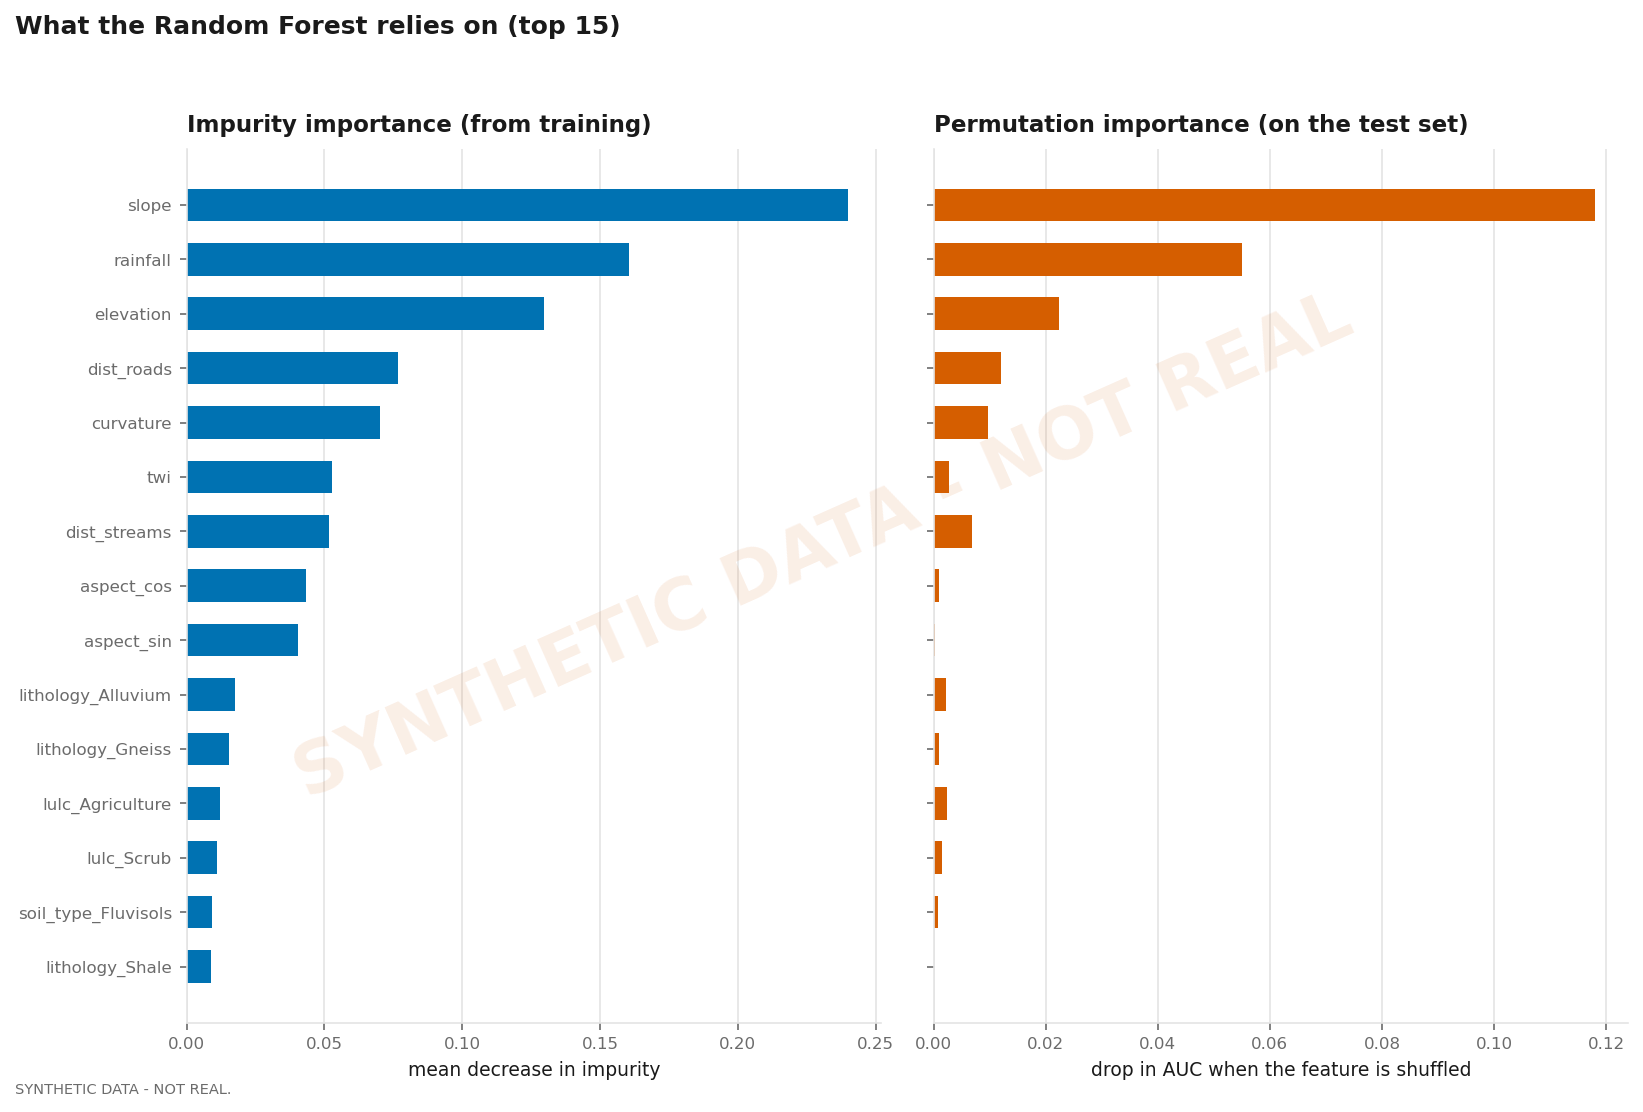
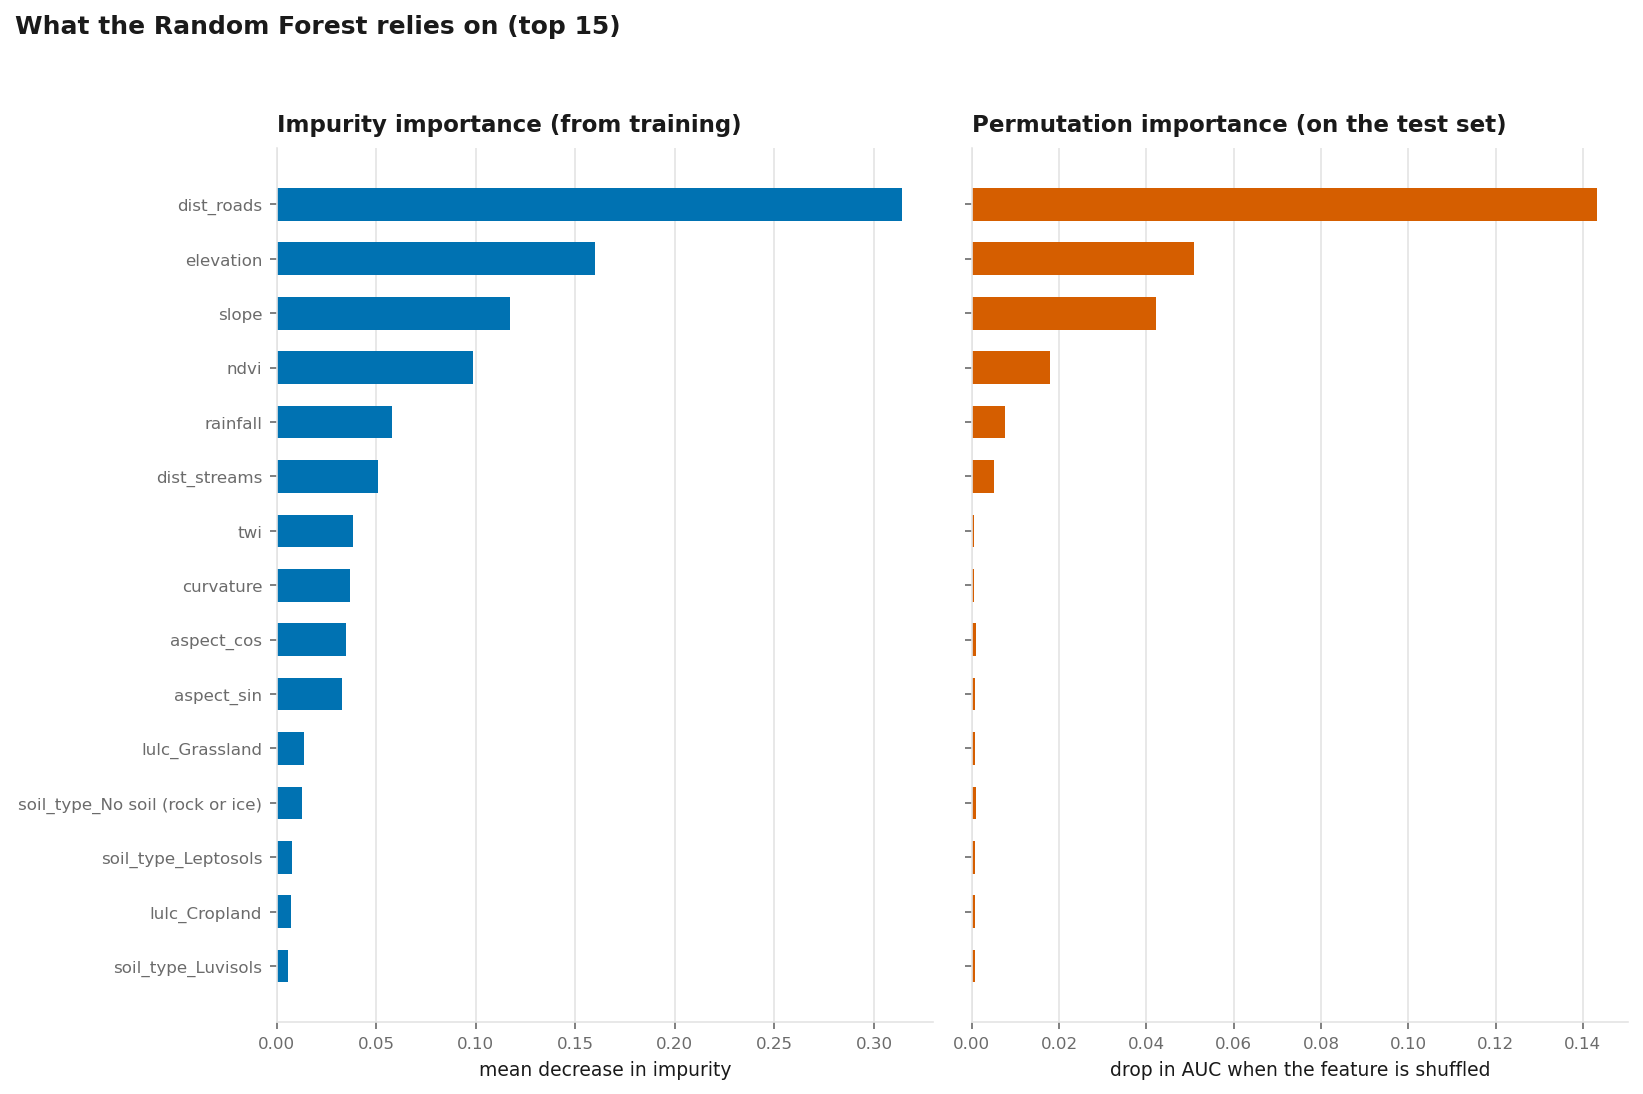
feat: real data ML pipeline complete
RF AUC 0.9604, SVM AUC 0.9404
23 features, 15169 rows, GSI inventory

RF minus SVM +0.0199 (95% bootstrap +0.0157 to +0.0242). Near-road
check: within 1 km of a road RF 0.934, SVM 0.907. Adds
src/near_road_check.py; evaluation report and figures regenerated on
real data. EDA outputs are still from the synthetic run.

diff --git a/src/near_road_check.py b/src/near_road_check.py
@@ -1,0 +1,88 @@
+"""
+How much of the test AUC comes from GSI's road-corridor survey pattern?
+
+    python -m src.near_road_check            (after src.evaluate)
+
+Why: at the real points the median distance to a road is 30 m for landslides and 1,154 m for stable
+points, and dist_roads is Random Forest's strongest feature. A model can then score well partly by
+answering "is this near a road?". This splits the held-out test set by distance to the nearest road and
+measures AUC in each part separately. Inside one part that shortcut is much weaker, so the AUC there is
+closer to how well the models rank terrain. Nothing is retrained; the models and test rows are exactly
+the ones src.evaluate scored. Results go to models/metadata.json under near_road_check.
+"""
+import sys
+
+import joblib
+import numpy as np
+import pandas as pd
+from sklearn.metrics import roc_auc_score
+
+from src import artifacts, config
+from src.evaluate import bootstrap_auc_difference, risk_scores
+
+ROAD_SPLIT_M = 1000
+BOOTSTRAP_ROUNDS = 1000
+
+
+def auc_interval(y: np.ndarray, s: np.ndarray, rounds: int = BOOTSTRAP_ROUNDS) -> tuple[float, float]:
+    """95% bootstrap interval for one model's AUC on one subset."""
+    rng = np.random.default_rng(config.RANDOM_STATE)
+    values = []
+    for _ in range(rounds):
+        idx = rng.integers(0, len(y), len(y))
+        if len(np.unique(y[idx])) == 2:
+            values.append(roc_auc_score(y[idx], s[idx]))
+    return float(np.percentile(values, 2.5)), float(np.percentile(values, 97.5))
+
+
+def main() -> int:
+    print(config.data_source_banner())
+    bundle = joblib.load(config.PROCESSED_DIR / "prepared.joblib")
+    X_test, y_test = bundle["X_test"], bundle["y_test"]
+    models = {"SVM (RBF)": joblib.load(config.SVM_MODEL_PATH), "Random Forest": joblib.load(config.RF_MODEL_PATH)}
+
+    # The test rows keep their row numbers from dataset.csv (preprocess only drops rows, never renumbers),
+    # so the unscaled distance comes straight from the CSV.
+    raw = pd.read_csv(config.DATASET_CSV)
+    dist = raw.loc[X_test.index, "dist_roads"].to_numpy()
+    scaler = joblib.load(config.SCALER_PATH)
+    col = list(bundle["feature_names"]).index("dist_roads")
+    rebuilt = X_test["dist_roads"].to_numpy() * scaler.scale_[col] + scaler.mean_[col]
+    if not np.allclose(rebuilt, dist, atol=0.05):
+        raise SystemExit("Test rows do not line up with dataset.csv; rerun src.preprocess first.")
+
+    y = y_test.to_numpy()
+    scores = {name: risk_scores(model, X_test) for name, model in models.items()}
+    subsets = {
+        "all test points": np.ones(len(y), dtype=bool),
+        f"within {ROAD_SPLIT_M} m of a road": dist <= ROAD_SPLIT_M,
+        f"beyond {ROAD_SPLIT_M} m": dist > ROAD_SPLIT_M,
+    }
+    results = {}
+    print(f"\nTest set split at {ROAD_SPLIT_M} m from the nearest OSM road\n")
+    print(f"  {'subset':<26}{'rows':>6}{'landslide':>10}{'stable':>8}   {'SVM AUC (95%)':<24}{'RF AUC (95%)':<24}RF - SVM (95%)")
+    for label, mask in subsets.items():
+        yy = y[mask]
+        row = {"rows": int(mask.sum()), "landslide": int(yy.sum()), "stable": int((yy == 0).sum())}
+        cells = []
+        for name in ["SVM (RBF)", "Random Forest"]:
+            auc = float(roc_auc_score(yy, scores[name][mask]))
+            low, high = auc_interval(yy, scores[name][mask])
+            row[name] = {"auc": round(auc, 4), "ci_low": round(low, 4), "ci_high": round(high, 4)}
+            cells.append(f"{auc:.4f} ({low:.3f}-{high:.3f})")
+        diff = bootstrap_auc_difference(yy, scores["SVM (RBF)"][mask], scores["Random Forest"][mask])
+        row["rf_minus_svm"] = diff
+        results[label] = row
+        print(f"  {label:<26}{row['rows']:>6,}{row['landslide']:>10,}{row['stable']:>8,}   {cells[0]:<24}{cells[1]:<24}"
+              f"{diff['mean_difference']:+.4f} ({diff['ci_low']:+.4f} to {diff['ci_high']:+.4f})")
+
+    artifacts.update_metadata("near_road_check", {
+        "split_m": ROAD_SPLIT_M, "road_source": "OpenStreetMap, dist_roads.tif",
+        "bootstrap_rounds": BOOTSTRAP_ROUNDS, "subsets": results,
+    })
+    print("\nSaved to models/metadata.json (near_road_check)")
+    return 0
+
+
+if __name__ == "__main__":
+    sys.exit(main())

diff --git a/docs/decisions.md b/docs/decisions.md
@@ -140,3 +140,48 @@ label. The merged names are saved in `metadata.json` and applied again in `prepa
 dropped, 2 rows median-filled, 15,169 used. VIF dropped nothing (highest elevation 6.47, NDVI 5.08): 23 features.
 Train 10,618 (3,530 landslide), SMOTE to 7,088 / 7,088; test 4,551 (1,513 landslide), never resampled.
 Synthetic models and metadata kept locally in `models/synthetic_baseline_2026-09-14/` for the comparison.
+
+## 17 September 2026: real-data results (Steps 5 to 7)
+
+`python -m src.train_svm` (10 min 17 s), `python -m src.train_rf` (4 min 54 s), `python -m src.evaluate`,
+`python -m src.near_road_check`. Full grids, 5-fold stratified CV, SMOTE inside every fold, seed 42.
+Test set 4,551 rows (1,513 landslide), never resampled.
+
+| | SVM (RBF) | Random Forest |
+|---|---|---|
+| Best parameters | C 100, gamma 0.01 | 300 trees, max_depth None, min_samples_split 2 |
+| CV AUC | 0.9427 | 0.9618 |
+| **Test AUC** | **0.9404** | **0.9604** |
+| Average precision | 0.8814 | 0.9143 |
+| Accuracy / precision / recall / F1 at 0.5 | 0.871 / 0.759 / 0.896 / 0.822 | 0.902 / 0.831 / 0.886 / 0.858 |
+| Confusion at 0.5 (TN, FP, FN, TP) | 2,608, 430, 158, 1,355 | 2,766, 272, 172, 1,341 |
+| Youden threshold | 0.52 (recall 0.890) | 0.52 (recall 0.884) |
+
+RF minus SVM AUC +0.0199, 95% bootstrap interval +0.0157 to +0.0242: separable. Linear SVM test AUC 0.9265,
+so the RBF kernel adds +0.0139. Synthetic baseline for comparison: RF 0.8767, SVM 0.8541.
+
+RF importance (impurity / permutation): dist_roads 0.314 / +0.143, elevation 0.160 / +0.051, slope 0.117 /
++0.042, ndvi 0.099 / +0.018, rainfall 0.058 / +0.008.
+
+Near-road check (test set split at 1 km from an OSM road):
+
+| Subset | Rows (landslide) | SVM AUC (95%) | RF AUC (95%) | RF minus SVM (95%) |
+|---|---|---|---|---|
+| All | 4,551 (1,513) | 0.940 (0.934 to 0.947) | 0.960 (0.955 to 0.966) | +0.020 (+0.016 to +0.024) |
+| Within 1 km | 2,855 (1,440) | 0.907 (0.896 to 0.918) | 0.934 (0.925 to 0.943) | +0.027 (+0.020 to +0.035) |
+| Beyond 1 km | 1,696 (73) | 0.833 (0.774 to 0.886) | 0.952 (0.929 to 0.970) | +0.119 (+0.069 to +0.177) |
+
+Within 1 km of a road, where the two classes are nearly balanced and road distance separates them far less,
+AUC falls by about 0.03 for both models and RF stays ahead with an interval that excludes zero. Beyond 1 km only
+73 landslides remain, so those intervals are wide.
+
+Limitations to state with these numbers:
+- dist_roads is the strongest feature by far, largely because GSI surveyed along roads (median 30 m at
+  landslides against 1,154 m at stable points). The headline AUCs include that effect; the within-1 km figures
+  are the fairer measure of terrain ranking, and some road effect remains even inside 1 km.
+- Several best parameters sit on the edge of their grid (SVM C = 100, linear C = 100, RF 300 trees,
+  min_samples_split 2), so the true optimum may lie outside the grid. The grids were not widened after seeing
+  the results.
+- Random train/test split: spatially close points fall on both sides, so scores are likely optimistic.
+- The "why the ranking comes out this way" paragraph in outputs/evaluation_report.txt is fixed explanatory text
+  in src/evaluate.py, not a measurement.
